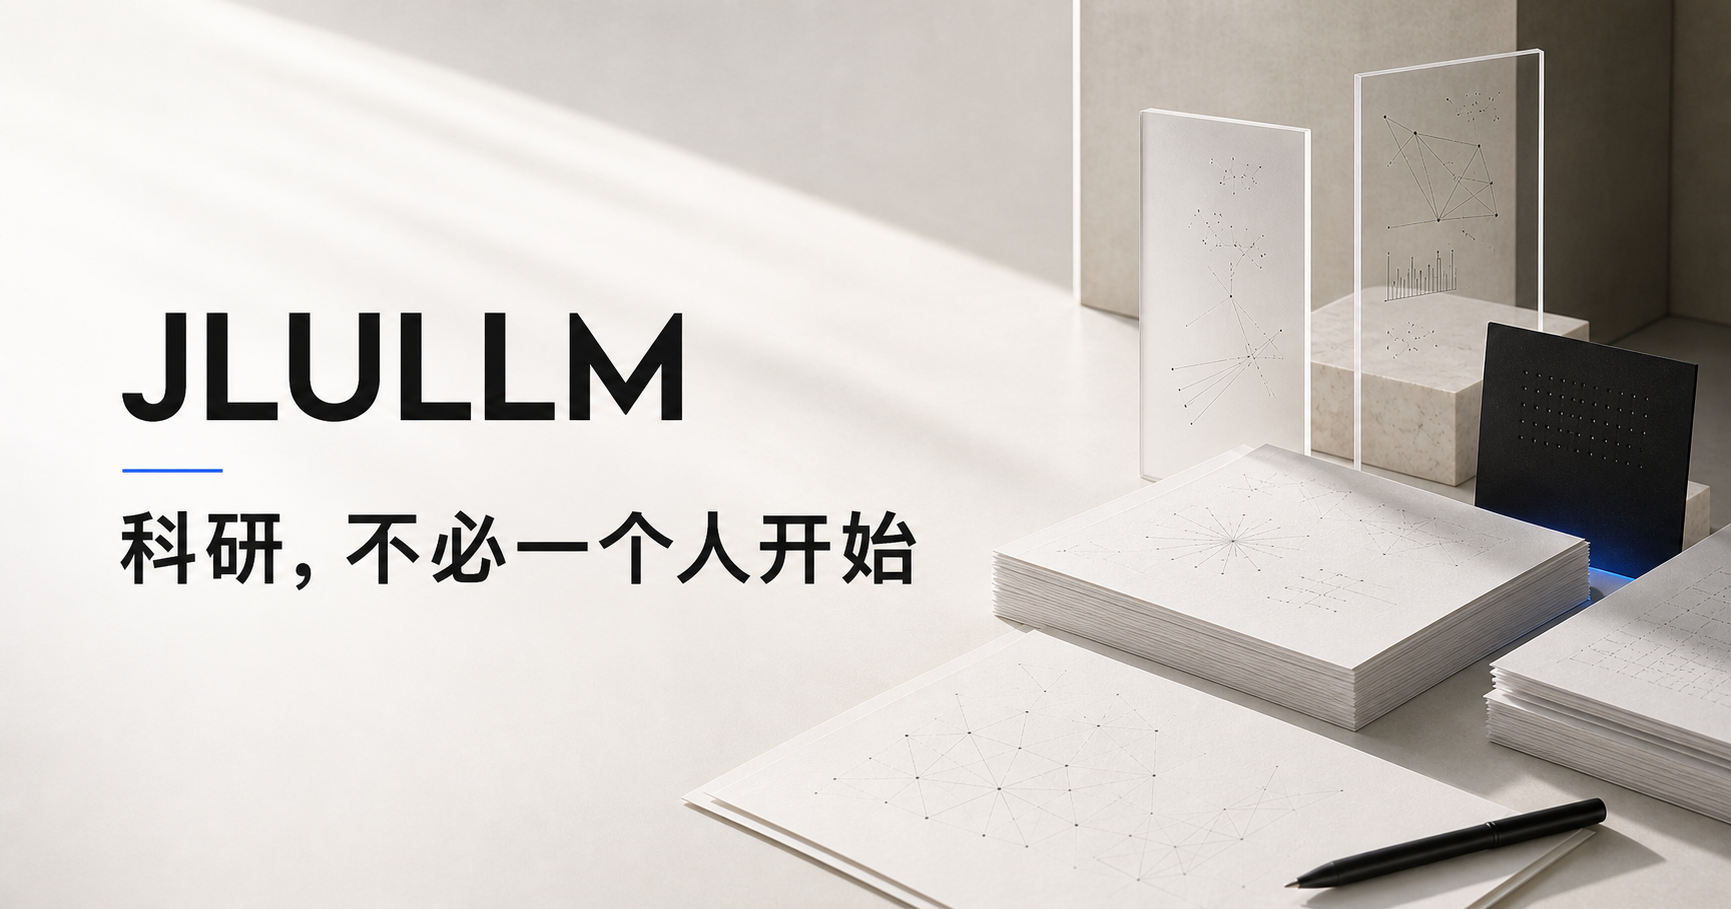
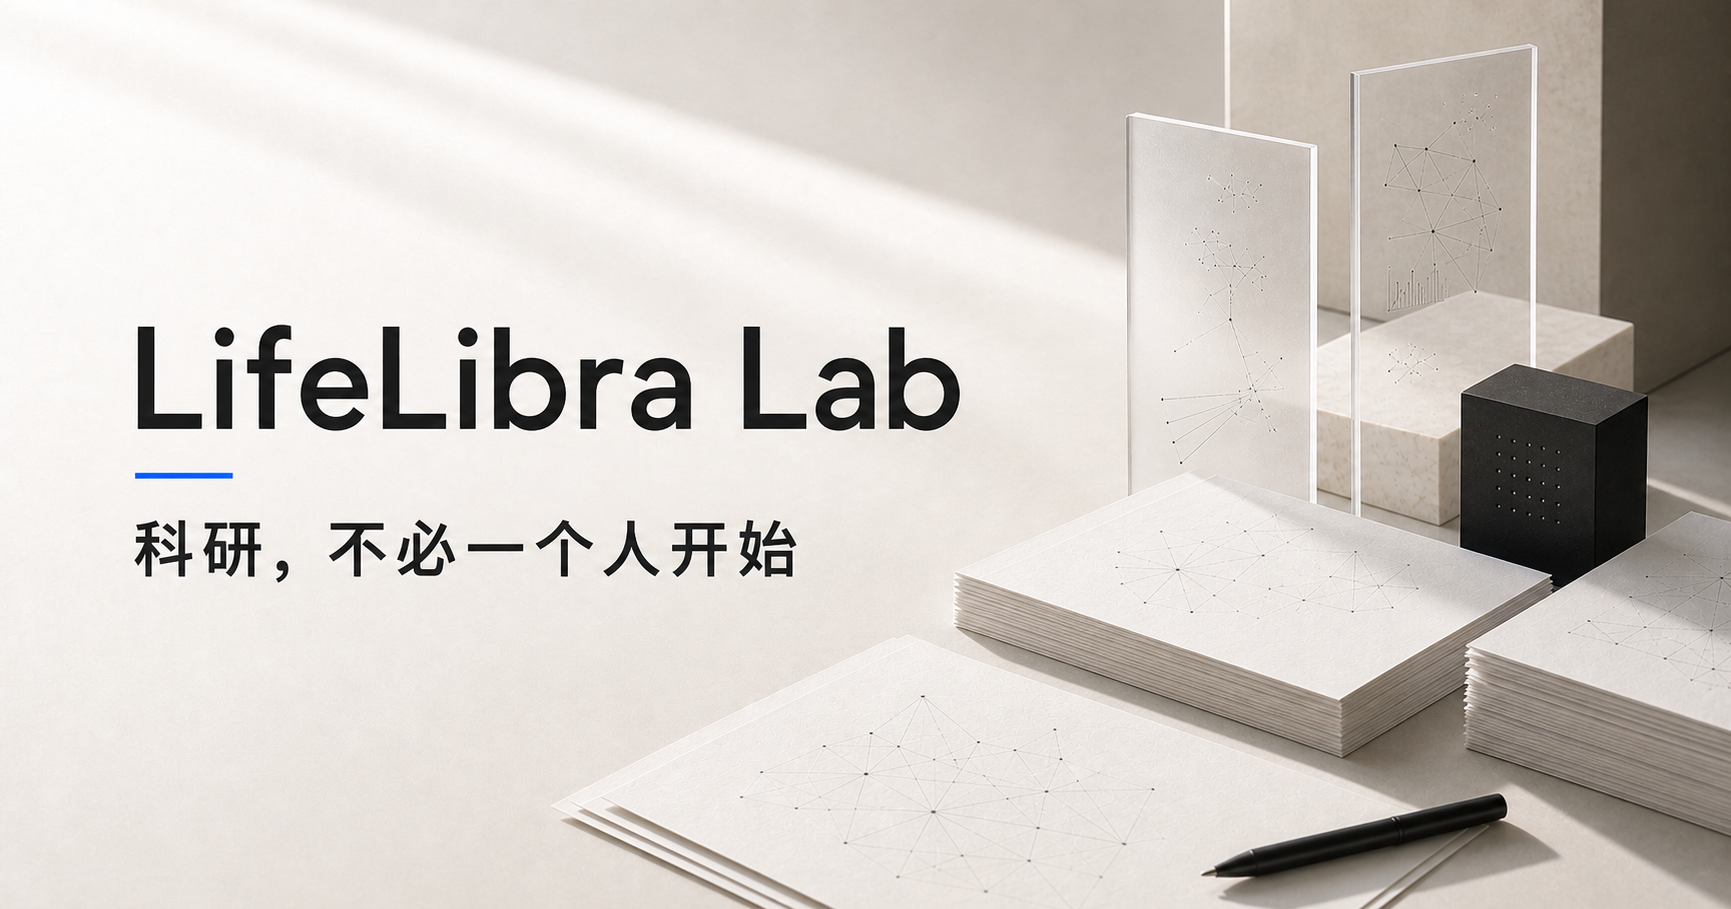
Rename community to LifeLibra Lab

diff --git a/website/src/App.jsx b/website/src/App.jsx
@@ -186,8 +186,8 @@ function Header({ currentPage }) {
 
   return (
     <header className="site-header" aria-label="主导航">
-      <a className="brand" href={href()} aria-label="JLULLM 首页">
-        <strong>JLULLM</strong><span aria-hidden="true">·</span><span>吉林大学 AI 科研社区</span>
+      <a className="brand" href={href()} aria-label="LifeLibra Lab 首页">
+        <strong>LifeLibra Lab</strong><span aria-hidden="true">·</span><span>开放 AI 科研社区</span>
       </a>
       <button
         className="menu-toggle"
@@ -221,13 +221,13 @@ function Footer({ currentPage }) {
   return (
     <footer>
       <div className="footer-main">
-        <a className="brand footer-brand" href={href()}><strong>JLULLM</strong><span>吉林大学 AI 科研社区</span></a>
+        <a className="brand footer-brand" href={href()}><strong>LifeLibra Lab</strong><span>开放 AI 科研社区</span></a>
         <p>以同行连接想法，以研究抵达更远。</p>
       </div>
       <nav className="footer-nav" aria-label="页脚导航">
         {routes.slice(1).map((route) => <a key={route.id} href={href(route.slug)}>{route.en}</a>)}
       </nav>
-      <p className="copyright">© {new Date().getFullYear()} JLULLM Community</p>
+      <p className="copyright">© {new Date().getFullYear()} LifeLibra Lab</p>
     </footer>
   );
 }
@@ -247,9 +247,9 @@ function HomePage() {
   return (
     <section className="hero hero-home" aria-labelledby="home-title">
       <div className="hero-copy">
-        <p className="eyebrow">JLULLM · AI Research Community</p>
+        <p className="eyebrow">LifeLibra Lab · Open AI Research Community</p>
         <h1 id="home-title">科研，<br />不必一个人开始</h1>
-        <p className="hero-lede">和志同道合的同学，<br />一起把 AI 想法做成真正的研究。</p>
+        <p className="hero-lede">和志同道合的伙伴，<br />一起把 AI 想法做成真正的研究。</p>
         <div className="hero-actions">
           <a className="button button-primary" href={href("recruitment")}>申请加入 <ArrowRight size={18} weight="bold" /></a>
           <a className="text-link" href={href("research")}>了解研究 <ArrowRight size={17} /></a>
@@ -365,7 +365,7 @@ function RecruitmentPage() {
       <PageHero
         kicker="Recruitment · 招募"
         title={<>带着好奇心来，<br />和我们一起把问题做深。</>}
-        description="JLULLM 面向所有高校招募对 AI 研究有持续兴趣的同学。我们在线协作，不以已有论文或成熟课题作为加入门槛。"
+        description="LifeLibra Lab 面向所有对 AI 研究有持续兴趣的人。我们在线协作，不限制学校、专业或当前身份，也不以已有论文或成熟课题作为加入门槛。"
       />
       <section className="recruitment-layout">
         <div className="criteria-panel">
@@ -377,7 +377,7 @@ function RecruitmentPage() {
         <div className="collaboration-panel">
           <p className="panel-label">How we work · 如何协作</p>
           <h2>线上实验室，<br />真实的研究协作。</h2>
-          <p>围绕明确的问题组成小组，通过定期讨论、论文阅读、实验复现与写作审阅共同推进。参与者来自不同高校，协作以可靠、透明和长期投入为基础。</p>
+          <p>围绕明确的问题组成小组，通过定期讨论、论文阅读、实验复现与写作审阅共同推进。参与者可以来自不同地区、专业与职业阶段，协作以可靠、透明和长期投入为基础。</p>
           <div className="process-list">
             <div><span>01</span><strong>提交申请</strong><p>介绍你的背景、兴趣与可投入时间。</p></div>
             <div><span>02</span><strong>相互了解</strong><p>围绕研究兴趣进行一次线上交流。</p></div>
@@ -397,7 +397,7 @@ function ContactPage() {
       <section className="contact-stage">
         <p className="page-kicker">Contact · 联系</p>
         <h1>让一个值得研究的想法，<br />成为合作的开始。</h1>
-        <p>如果你希望与 JLULLM 探讨研究合作、学术交流或社区共建，欢迎通过公开邮箱与我们联系。</p>
+        <p>如果你希望与 LifeLibra Lab 探讨研究合作、学术交流或社区共建，欢迎通过公开邮箱与我们联系。</p>
         <button className="contact-placeholder" type="button" disabled>
           <EnvelopeSimple size={25} weight="light" aria-hidden="true" />
           <span><small>PUBLIC EMAIL</small>邮箱准备中</span>

diff --git a/website/index.html b/website/index.html
@@ -3,15 +3,15 @@
   <head>
     <meta charset="UTF-8" />
     <meta name="viewport" content="width=device-width, initial-scale=1.0" />
-    <meta name="description" content="JLULLM 是由吉林大学同学发起的线上 AI 科研社区，连接志同道合的伙伴，共同研究并推动论文发表。" />
+    <meta name="description" content="LifeLibra Lab 是面向所有人的线上 AI 科研社区，连接志同道合的伙伴，共同研究并推动论文发表。" />
     <meta name="theme-color" content="#f7f7f5" />
-    <meta property="og:title" content="JLULLM · 吉林大学 AI 科研社区" />
-    <meta property="og:description" content="科研，不必一个人开始。和志同道合的同学，一起把 AI 想法做成真正的研究。" />
+    <meta property="og:title" content="LifeLibra Lab · 开放 AI 科研社区" />
+    <meta property="og:description" content="科研，不必一个人开始。和志同道合的伙伴，一起把 AI 想法做成真正的研究。" />
     <meta property="og:type" content="website" />
     <meta property="og:image" content="https://goya4140.github.io/jlullm-community/og.png" />
     <meta name="twitter:card" content="summary_large_image" />
     <meta name="twitter:image" content="https://goya4140.github.io/jlullm-community/og.png" />
-    <title>JLULLM · 吉林大学 AI 科研社区</title>
+    <title>LifeLibra Lab · 开放 AI 科研社区</title>
   </head>
   <body>
     <div id="root"></div>

diff --git a/website/research/index.html b/website/research/index.html
@@ -3,15 +3,15 @@
   <head>
     <meta charset="UTF-8" />
     <meta name="viewport" content="width=device-width, initial-scale=1.0" />
-    <meta name="description" content="了解 JLULLM 在大语言模型、Agent、多模态与 AI for Medicine 方向的研究问题与方法。" />
+    <meta name="description" content="了解 LifeLibra Lab 在大语言模型、Agent、多模态与 AI for Medicine 方向的研究问题与方法。" />
     <meta name="theme-color" content="#f7f7f5" />
-    <meta property="og:title" content="Research · JLULLM" />
+    <meta property="og:title" content="Research · LifeLibra Lab" />
     <meta property="og:description" content="从值得追问的问题，走向可靠的研究。" />
     <meta property="og:type" content="website" />
     <meta property="og:image" content="https://goya4140.github.io/jlullm-community/og.png" />
     <meta name="twitter:card" content="summary_large_image" />
     <meta name="twitter:image" content="https://goya4140.github.io/jlullm-community/og.png" />
-    <title>Research · JLULLM</title>
+    <title>Research · LifeLibra Lab</title>
   </head>
   <body><div id="root"></div><script type="module" src="/src/main.jsx"></script></body>
 </html>

diff --git a/website/recruitment/index.html b/website/recruitment/index.html
@@ -3,15 +3,15 @@
   <head>
     <meta charset="UTF-8" />
     <meta name="viewport" content="width=device-width, initial-scale=1.0" />
-    <meta name="description" content="加入 JLULLM，与来自不同高校的伙伴在线开展 AI 研究。" />
+    <meta name="description" content="加入 LifeLibra Lab，与志同道合的伙伴在线开展 AI 研究。" />
     <meta name="theme-color" content="#f7f7f5" />
-    <meta property="og:title" content="Recruitment · JLULLM" />
+    <meta property="og:title" content="Recruitment · LifeLibra Lab" />
     <meta property="og:description" content="带着好奇心来，和我们一起把问题做深。" />
     <meta property="og:type" content="website" />
     <meta property="og:image" content="https://goya4140.github.io/jlullm-community/og.png" />
     <meta name="twitter:card" content="summary_large_image" />
     <meta name="twitter:image" content="https://goya4140.github.io/jlullm-community/og.png" />
-    <title>Recruitment · JLULLM</title>
+    <title>Recruitment · LifeLibra Lab</title>
   </head>
   <body><div id="root"></div><script type="module" src="/src/main.jsx"></script></body>
 </html>

diff --git a/website/contact/index.html b/website/contact/index.html
@@ -3,15 +3,15 @@
   <head>
     <meta charset="UTF-8" />
     <meta name="viewport" content="width=device-width, initial-scale=1.0" />
-    <meta name="description" content="联系 JLULLM，探讨研究合作、学术交流或社区共建。" />
+    <meta name="description" content="联系 LifeLibra Lab，探讨研究合作、学术交流或社区共建。" />
     <meta name="theme-color" content="#f7f7f5" />
-    <meta property="og:title" content="Contact · JLULLM" />
+    <meta property="og:title" content="Contact · LifeLibra Lab" />
     <meta property="og:description" content="让一个值得研究的想法，成为合作的开始。" />
     <meta property="og:type" content="website" />
     <meta property="og:image" content="https://goya4140.github.io/jlullm-community/og.png" />
     <meta name="twitter:card" content="summary_large_image" />
     <meta name="twitter:image" content="https://goya4140.github.io/jlullm-community/og.png" />
-    <title>Contact · JLULLM</title>
+    <title>Contact · LifeLibra Lab</title>
   </head>
   <body><div id="root"></div><script type="module" src="/src/main.jsx"></script></body>
 </html>

diff --git a/website/publication/index.html b/website/publication/index.html
@@ -3,15 +3,15 @@
   <head>
     <meta charset="UTF-8" />
     <meta name="viewport" content="width=device-width, initial-scale=1.0" />
-    <meta name="description" content="JLULLM 社区参与完成的论文与研究成果。" />
+    <meta name="description" content="LifeLibra Lab 参与完成的论文与研究成果。" />
     <meta name="theme-color" content="#f7f7f5" />
-    <meta property="og:title" content="Publication · JLULLM" />
+    <meta property="og:title" content="Publication · LifeLibra Lab" />
     <meta property="og:description" content="让每一次探索，留下可被验证的成果。" />
     <meta property="og:type" content="website" />
     <meta property="og:image" content="https://goya4140.github.io/jlullm-community/og.png" />
     <meta name="twitter:card" content="summary_large_image" />
     <meta name="twitter:image" content="https://goya4140.github.io/jlullm-community/og.png" />
-    <title>Publication · JLULLM</title>
+    <title>Publication · LifeLibra Lab</title>
   </head>
   <body><div id="root"></div><script type="module" src="/src/main.jsx"></script></body>
 </html>

diff --git a/website/members/index.html b/website/members/index.html
@@ -3,15 +3,15 @@
   <head>
     <meta charset="UTF-8" />
     <meta name="viewport" content="width=device-width, initial-scale=1.0" />
-    <meta name="description" content="认识 JLULLM 的负责人和社区成员。" />
+    <meta name="description" content="认识 LifeLibra Lab 的负责人和社区成员。" />
     <meta name="theme-color" content="#f7f7f5" />
-    <meta property="og:title" content="Members · JLULLM" />
+    <meta property="og:title" content="Members · LifeLibra Lab" />
     <meta property="og:description" content="优秀的同行，是社区最好的证明。" />
     <meta property="og:type" content="website" />
     <meta property="og:image" content="https://goya4140.github.io/jlullm-community/og.png" />
     <meta name="twitter:card" content="summary_large_image" />
     <meta name="twitter:image" content="https://goya4140.github.io/jlullm-community/og.png" />
-    <title>Members · JLULLM</title>
+    <title>Members · LifeLibra Lab</title>
   </head>
   <body><div id="root"></div><script type="module" src="/src/main.jsx"></script></body>
 </html>
